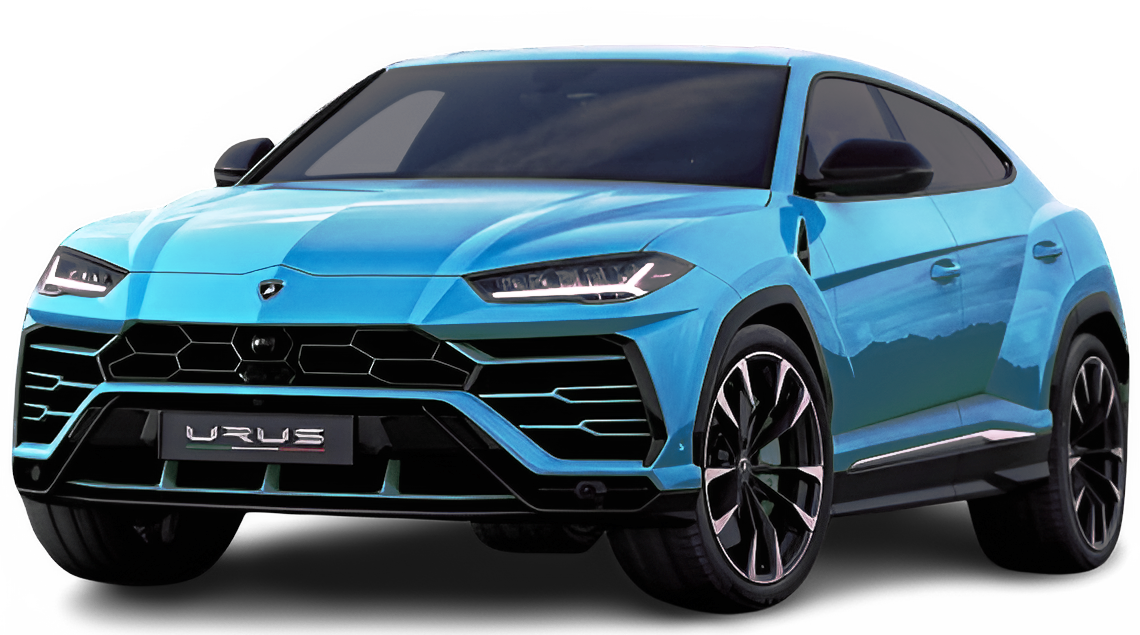
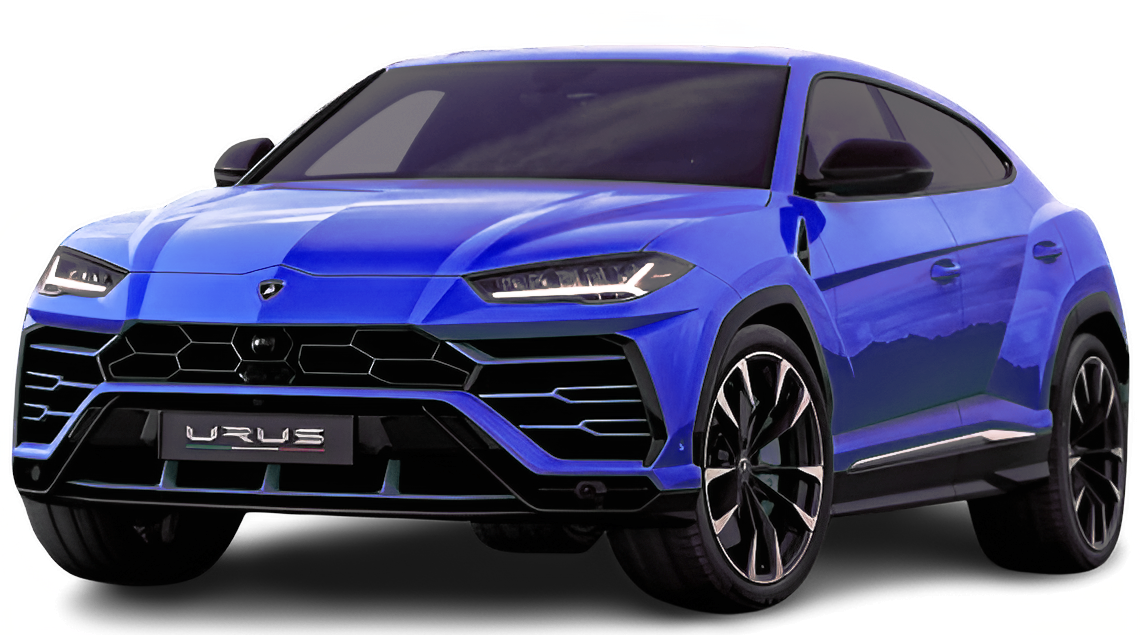
Update Hero section styles and add new Urus hero image for landing redesign
- Changed border colors of decorative circles in the Hero section to use primary color variants for better visual consistency.
- Added a new image file for the old version of the Urus hero section.
- Updated the existing Urus hero image to enhance visual appeal.

These changes contribute to a more engaging and visually appealing landing page experience.

diff --git a/components/sections/Hero.tsx b/components/sections/Hero.tsx
@@ -9,8 +9,8 @@ export default function HeroSection() {
   return (
     <section className="relative bg-base-50/30 dark:bg-base-950 z-20">
       {/* Decorative circles */}
-      <div className="absolute top-0 right-0 w-[800px] h-[800px] rounded-full border-[80px] border-base-200/30 -translate-y-1/3 translate-x-1/4 xl:hidden z-[-1]"></div>
-      <div className="absolute top-20 right-20 w-[600px] h-[600px] rounded-full border-[60px] border-base-200/30 translate-x-1/4 xl:hidden z-[-1]"></div>
+      <div className="absolute top-0 right-0 w-[800px] h-[800px] rounded-full border-[80px] border-primary-200/10 -translate-y-1/3 translate-x-1/4 xl:hidden z-[-1]"></div>
+      <div className="absolute top-20 right-20 w-[600px] h-[600px] rounded-full border-[60px] border-primary-200/15 translate-x-1/4 xl:hidden z-[-1]"></div>
 
       {/* Background art element */}
       <div className="absolute top-[375px] left-[650px] xl:left-1/2  -translate-x-1/4 -translate-y-1/2 w-[700px] h-[700px] md:w-[750px] md:h-[750px] lg:w-[800px] lg:h-[800px] pointer-events-none z-[-1]">
